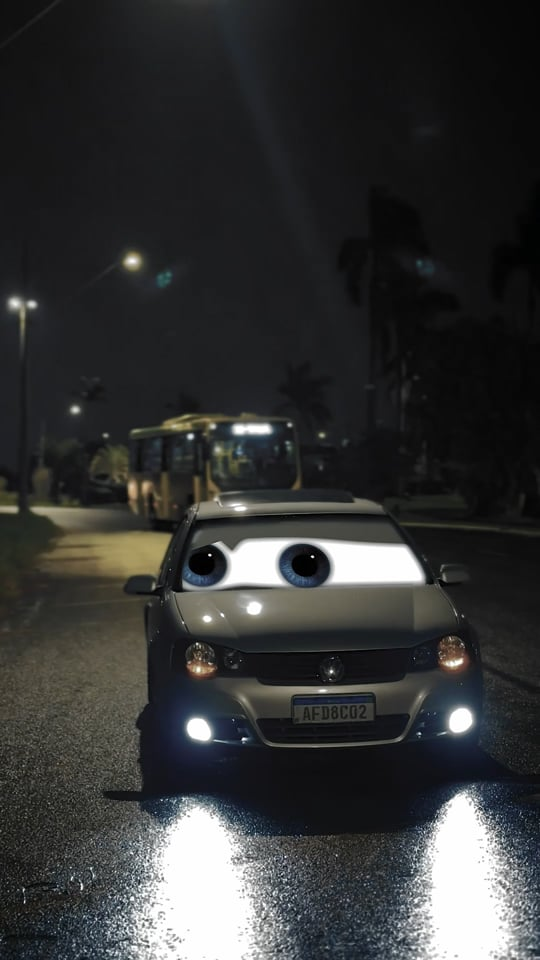
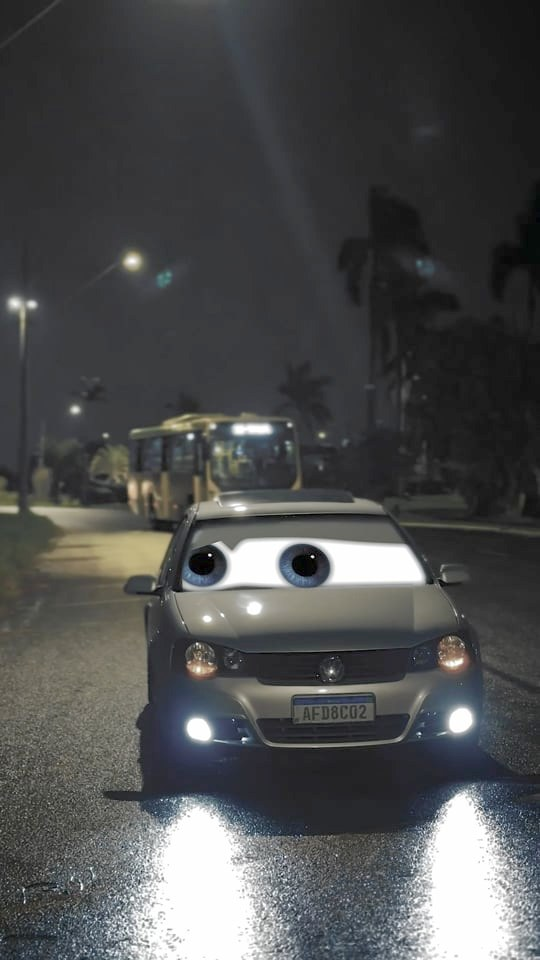
Clareia as capas escuras e devolve o Pilates Studio Ad
O card do "Interview Cut" parecia sem capa: a imagem existia, mas o
frame escolhido pelo Vimeo era escuro demais e, com o véu do card por
cima, sumia. Medi todas as capas e três estavam abaixo do limite de
leitura.

- Novo tools/clarear-capas.py: levanta as sombras por gama (preserva os
  brancos) até a capa chegar num nível legível. Aplicado em Interview
  Cut (35 -> 78), Millionaire Saturdays (25 -> 78), Pixar Car (53 -> 78)
  e Huiós (4 -> 28).
- Teto de gama em 2.5: acima disso a compressão do JPEG vira banda e
  ruído, o que aconteceu na primeira tentativa com a capa do Huiós.
- Vídeo 1206133567 ("Video 1 ADS") de volta como "Pilates Studio Ad",
  com a capa rebaixada de novo.

Ficam 9 vídeos: o banner mais 8 verticais, que fecham exatamente duas
fileiras de 4 sem deixar célula vazia.

diff --git a/js/main.js b/js/main.js
@@ -76,6 +76,15 @@ const PROJECTS = [
     aspect: "9:16",
   },
   {
+    title: "Pilates Studio Ad",
+    meta: "Short Form · Paid ad creative",
+    category: "shortform",
+    tag: "Short Form",
+    vimeoId: "1206133567",
+    thumb: "assets/thumbnails/1206133567.jpg",
+    aspect: "9:16",
+  },
+  {
     title: "Pixar Car Motion & VFX",
     meta: "Motion Design · Animated eyes on the windshield",
     category: "motion",

diff --git a/tools/clarear-capas.py b/tools/clarear-capas.py
@@ -1,0 +1,69 @@
+# Clareia as capas subexpostas de assets/thumbnails/.
+#
+# O Vimeo escolhe o frame de capa sozinho e às vezes cai num momento
+# escuro do vídeo. Com o véu escuro que o card aplica por cima, o card
+# fica parecendo vazio. Este script levanta as sombras por gama (que
+# preserva os brancos, ao contrário de brilho linear) até a capa chegar
+# num nível legível.
+#
+# Uso (macOS):
+#   python3 -m venv venv && ./venv/bin/pip install pillow
+#   ./venv/bin/python tools/clarear-capas.py            # aplica
+#   ./venv/bin/python tools/clarear-capas.py --listar   # só mostra
+#
+# Atenção: reescreve os arquivos no lugar. Rodar duas vezes na mesma
+# capa clareia de novo; se errar, baixe a capa outra vez do Vimeo.
+
+import os
+import sys
+from PIL import Image, ImageStat
+
+PASTA = os.path.join(os.path.dirname(os.path.abspath(__file__)), "..", "assets", "thumbnails")
+ALVO = 78.0        # brilho médio desejado
+LIMITE = 62.0      # abaixo disso, a capa é considerada escura demais
+GAMA_MAX = 2.5     # acima disso a compressão vira banda e ruído
+
+
+def brilho(img):
+    return ImageStat.Stat(img.convert("L")).mean[0]
+
+
+def aplicar_gama(img, g):
+    tabela = [min(255, int(round(255.0 * (i / 255.0) ** (1.0 / g)))) for i in range(256)]
+    return img.point(tabela * len(img.getbands()))
+
+
+def gama_para_alvo(img, alvo):
+    """Busca binária pela gama que leva o brilho médio ao alvo."""
+    baixo, alto = 1.0, GAMA_MAX
+    for _ in range(18):
+        meio = (baixo + alto) / 2
+        if brilho(aplicar_gama(img, meio)) < alvo:
+            baixo = meio
+        else:
+            alto = meio
+    return (baixo + alto) / 2
+
+
+def main():
+    listar = "--listar" in sys.argv
+    for nome in sorted(os.listdir(PASTA)):
+        if not nome.lower().endswith(".jpg") or nome.startswith("._"):
+            continue
+        caminho = os.path.join(PASTA, nome)
+        img = Image.open(caminho).convert("RGB")
+        antes = brilho(img)
+        if antes >= LIMITE:
+            print(f"  {nome:<22} {antes:6.1f}  ok")
+            continue
+        g = gama_para_alvo(img, ALVO)
+        depois_img = aplicar_gama(img, g)
+        depois = brilho(depois_img)
+        print(f"  {nome:<22} {antes:6.1f} -> {depois:5.1f}  (gama {g:.2f})"
+              f"{'  [simulação]' if listar else ''}")
+        if not listar:
+            depois_img.save(caminho, quality=88, progressive=True)
+
+
+if __name__ == "__main__":
+    main()
